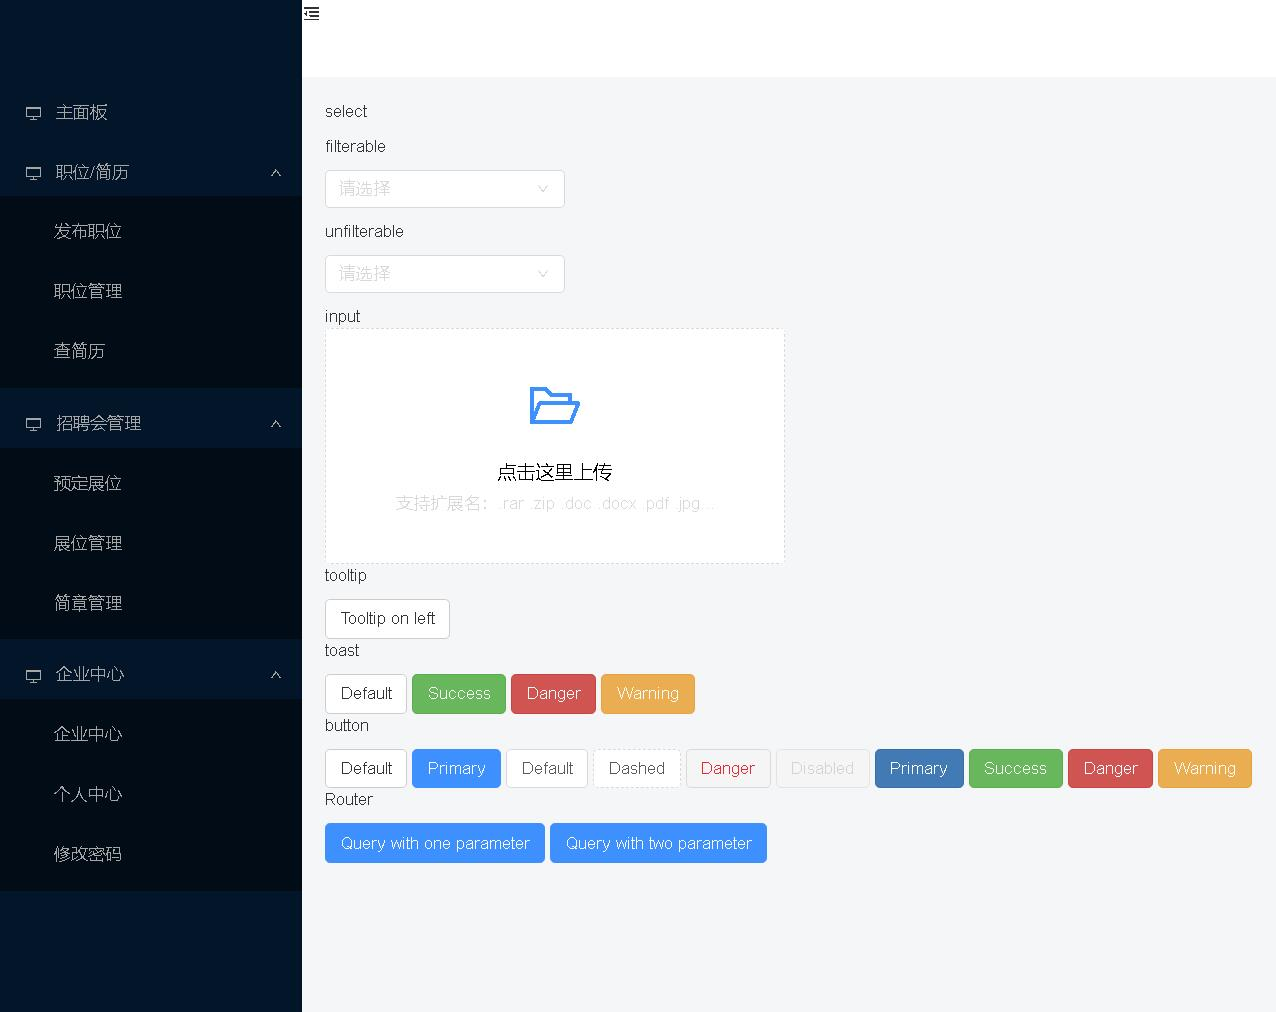
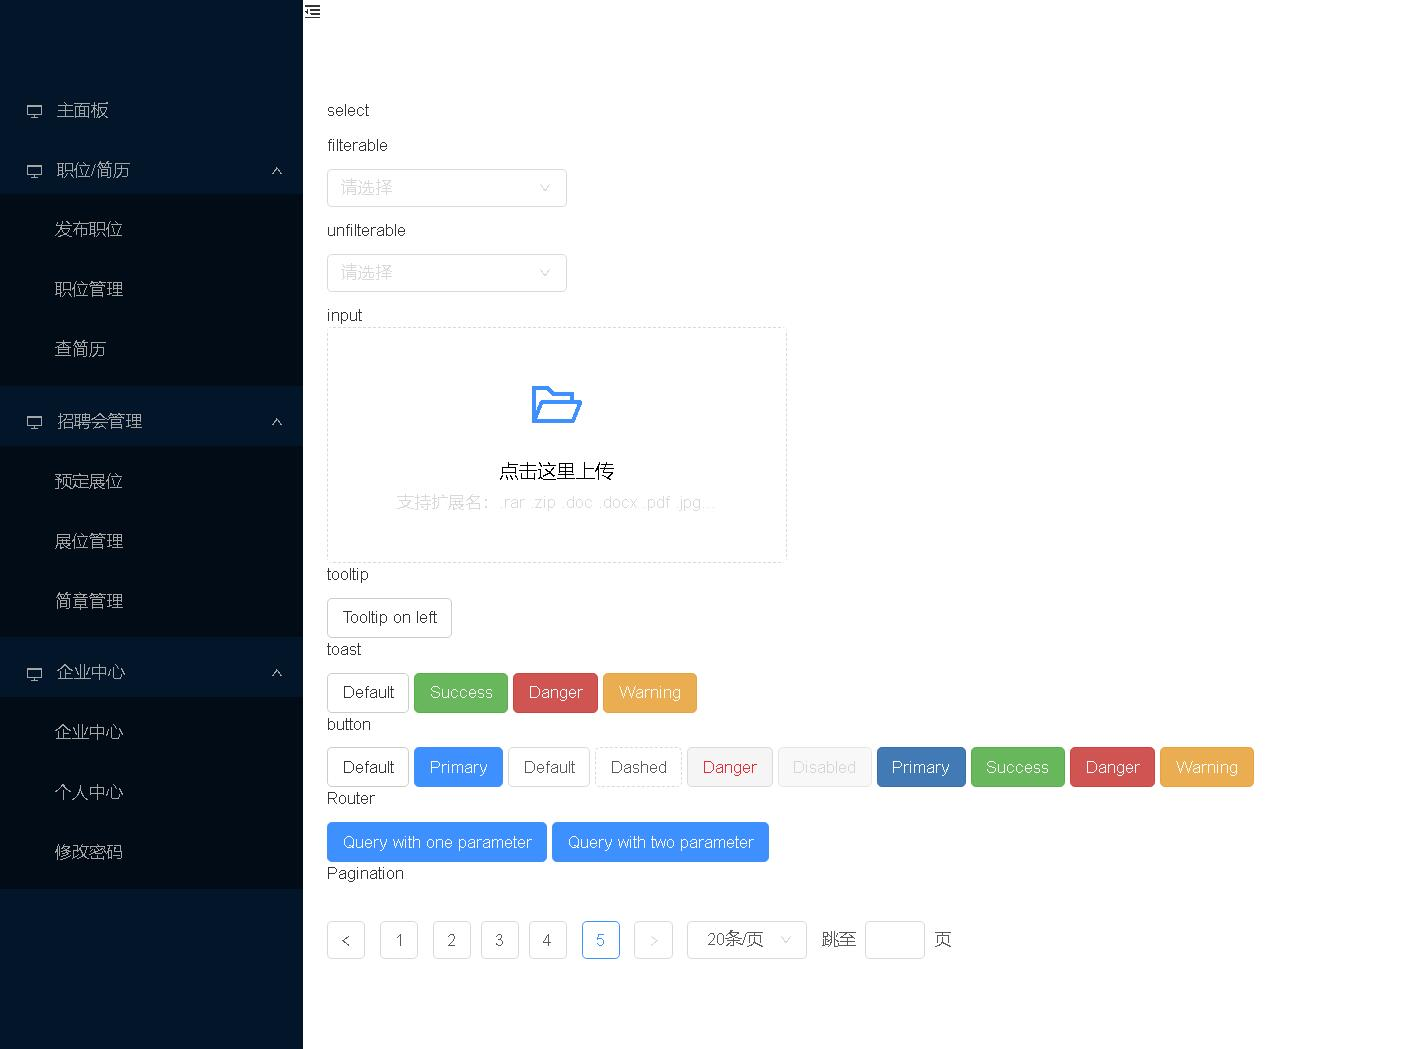
pagination refined

diff --git a/src/js/bootstrap_extend/pagination.js b/src/js/bootstrap_extend/pagination.js
@@ -38,7 +38,8 @@ class Pagination {
             this.prevShow = this.current == 1 ? false : true;
             this.nextShow = this.current == this.page ? false : true;
         } else {
-            if (this.current - this.lengthMid <= 2) {                min = 2;
+            if (this.current - this.lengthMid <= 2) {
+                min = 2;
                 max = min + this.options.itemLength - 1;
                 this.jumpPrevShow = false;
             } else {
@@ -105,17 +106,32 @@ class Pagination {
         }
         return el;
     }
+    parsePage(page) {
+        var val = parseInt(page);
+        if (isNaN(val) || val < 1) {
+            val = 1;
+        } else if (val > this.page) {
+            val = this.page;
+        }
+        return val;
+    }
+
+    go(page) {
+        var val = this.parsePage(page);
+        this.current = parseInt(val);
+        this.init();
+    }
 
     bindEvent() {
         let _this = this;
         _this.$prev.off();
         _this.$prev.on('click', function (e) {
-            if($(this).attr('aria-disabled') == 'true') return false;
+            if ($(this).attr('aria-disabled') == 'true') return false;
             change(_this.current - 1, _this, e);
         })
         _this.$next.off();
         _this.$next.on('click', function (e) {
-            if($(this).attr('aria-disabled') == 'true') return false; 
+            if ($(this).attr('aria-disabled') == 'true') return false;
             change(_this.current + 1, _this, e);
 
         })
@@ -131,41 +147,38 @@ class Pagination {
             change(cur, _this, e);
         })
         _this.$first.add(_this.$last).off();
-        _this.$first.add(_this.$last).on('click', function(e){
+        _this.$first.add(_this.$last).on('click', function (e) {
             var cur = $(this).attr('title');
             change(cur, _this, e);
         })
         _this.$itemWrap.off();
-        _this.$itemWrap.on('click', '.be-pagination-item', function(e){
+        _this.$itemWrap.on('click', '.be-pagination-item', function (e) {
             var cur = $(this).attr('title');
             change(cur, _this, e);
         })
         _this.$select.find('.be-select').off();
-        _this.$select.find('.be-select').on('selected.bs.select', function(e){            
+        _this.$select.find('.be-select').on('selected.bs.select', function (e) {
             _this.size = parseInt(e.selectData.value);
             _this.page = Math.ceil(_this.total / _this.size);
             var cur = _this.current > _this.page ? _this.page : _this.current;
             change(cur, _this, e);
         })
         _this.$input.off('blur', 'input');
-        _this.$input.on('blur', 'input', function(e){
-            var val = parseInt($(this).val());
-            if(isNaN(val) || val < 1){
-                val = 1;            
-            }else if( val > _this.page){
-                val = _this.page;
-            }
-            $(this).val(val);
+        _this.$input.on('blur', 'input', function (e) {
+            var val = _this.parsePage($(this).val());
             change(val, _this, e);
+            $(this).val(val);
         })
-        function change(current, env, e){
+        function change(current, env, e) {
             env.current = parseInt(current);
             env.init.call(env);
-            let changeEvent = $.Event('change.bs.pagination',{
-                current : env.current,
-                e : e
+            let changeEvent = $.Event('change.bs.pagination', {
+                current: env.current,
+                pagesize: env.size,
+                e: e
             });
             env.$element.trigger(changeEvent);
+            env.$input.find('input').val('');
         }
     }
 }
@@ -188,13 +201,13 @@ Pagination.DEFAULTS = {
 // Pagination PLUGIN DEFINITION
 // ==========================
 
-function Plugin(option) {
+function Plugin(option, param) {
     return this.each(function () {
         let $this = $(this);
         let data = $this.data('bs.pagination');
         let options = $.extend({}, Pagination.DEFAULTS, $this.data(), typeof option == 'object' && option);
         if (!data) $this.data('bs.pagination', (data = new Pagination(this, options)));
-        if (typeof option == 'string') data[option]();
+        if (typeof option == 'string') data[option](param);
     })
 }
 

diff --git a/src/js/bootstrap_extend/index.js b/src/js/bootstrap_extend/index.js
@@ -111,11 +111,13 @@ $(document).ready(function () {
     $(window).on('beRouteUpdate', function (e) {
         console.log(e.pathObj)
     })
-    $('[data-page="pagination"]').pagination();
-    $('[data-page="pagination"]').on('change.bs.pagination', function(e){
-        if(e.current){
+    var page = $('[data-page="pagination"]').pagination();
+    $('[data-page="pagination"]').on('change.bs.pagination', function (e) {
+        if (e.current) {
             console.log(e.current)
+            console.log(e.pagesize)
         }
     })
-
+    console.log(page)
+    $('[data-page="pagination"]').pagination('go', 2)
 })
